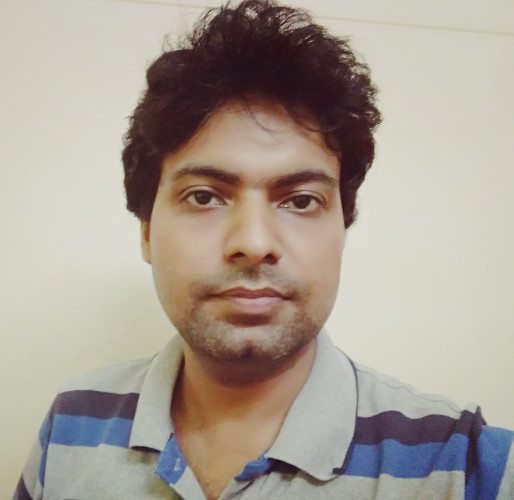
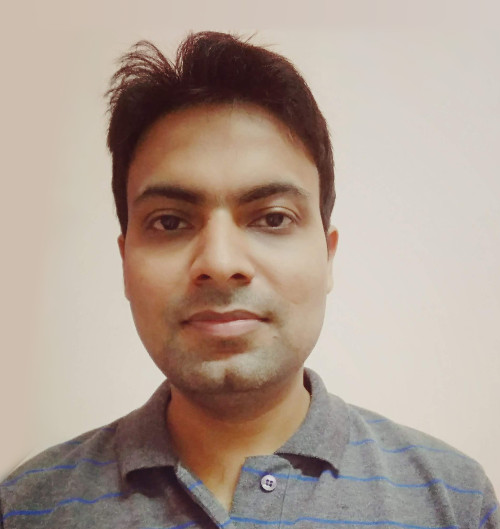
updated profile picture and main page

diff --git a/index.html b/index.html
@@ -81,7 +81,8 @@
             </h1>
             <div class="subheading mb-5">Department of Aerospace Engineering, IIT Bombay·
                 <a class="js-scroll-trigger" href="#contact">Contact Me</a>
-                <span style="visibility:hidden;"><a href="mailto:bhat.sourabh@iitb.ac.in">bhat.sourabh@iitb.ac.in</a></span>
+                <span style="visibility:hidden;"><a
+                        href="mailto:bhat.sourabh@iitb.ac.in">bhat.sourabh@iitb.ac.in</a></span>
             </div>
             <p class="mb-0">I am experienced in the development of software tools and application of computational fluid
                 dynamics in the field of Mechanical and Aerospace Engineering.</p>
@@ -420,43 +421,43 @@
                     <a href="https://doi.org/10.1016/j.jcp.2018.10.039">doi.org/10.1016/j.jcp.2018.10.039</a>
                     <!--<a href="http://www.sciencedirect.com/science/article/pii/S002199911830706X">Science Direct</a>-->
                 </li>
-            <!-- </ol>
+                <!-- </ol>
 
-            <div class="subheading mb-0">Conferences</div>
-            <ol class="mb-3"> -->
+                <div class="subheading mb-0">Conferences</div>
+                <ol class="mb-3"> -->
                 <li>
                     <span class="ml-2"></span>
                     <strong>Bhat S P</strong>, Parameswaran S, Mandal J C, <a href="share/ICTACEM_349_2017.pdf">
-                      "On the order of accuracy analysis of SDWLS method"</a>,
+                    "On the order of accuracy analysis of SDWLS method"</a>,
                     <em>ICTACEM 2017</em>, December 2017, IIT Kharagpur, India.
                 </li>
                 <li>
                     <span class="ml-2"></span>
                     <strong>Bhat S P</strong>, Mandal J C, <a href="share/AeSI_2017.pdf">
-                      "Artificial Compressibility Based Method for Two-phase Surface Tension Dominated Flows"</a>,
+                    "Artificial Compressibility Based Method for Two-phase Surface Tension Dominated Flows"</a>,
                     <em>Annual CFD Symposium 2017</em>, August 2017, NAL Bangalore,
                     India.
                 </li>
                 <li>
                     <span class="ml-2"></span>
                     <strong>Bhat S P</strong>, Mandal J C, <a href="share/FMFP2016-Bhat_Mandal.pdf">
-                      "A Novel HLLC-Type Riemann Solver for Two-Phase Incompressible Flows"</a>,
+                    "A Novel HLLC-Type Riemann Solver for Two-Phase Incompressible Flows"</a>,
                     <em>Proceedings of 6th International & 43rd National Conference on Fluid
-                    Mechanics and Fluid Power</em>, December 2016, Allahabad, India.
+                        Mechanics and Fluid Power</em>, December 2016, Allahabad, India.
                 </li>
                 <li>
                     <span class="ml-2"></span>
                     <strong>Bhat S P</strong>, Mandal J C, <a href="share/Sourabh_ThermaComp2016.pdf">
-                      "A novel reinitialization technique to conserve mass and enhance accuracy in VOF method"</a>,
+                    "A novel reinitialization technique to conserve mass and enhance accuracy in VOF method"</a>,
                     <em>Proceedings of 4th International Conference on Computational Methods for Thermal Problems</em>,
                     <a href="https://www.scopus.com/inward/record.uri?eid=2-s2.0-85053668366&partnerID=40&md5=c0555350568ed7fb80dcee0adb981595">
-                      Issue 217349</a>, July 6-8, 2016, Georgia Tech, Atlanta, USA.
+                        Issue 217349</a>, July 6-8, 2016, Georgia Tech, Atlanta, USA.
                 </li>
                 <li>
                     <span class="ml-2"></span>
                     Mandal J C, Parsai A, Parameswaran S, <strong>Bhat S P</strong>,
                     <a href="share/01 Interface Tracking (FMFP conference - Dec 2014).pdf">
-                      "A novel volume of fluid method for interface tracking"</a>,
+                        "A novel volume of fluid method for interface tracking"</a>,
                     <em>5th International and 41st National Conference on Fluid Mechanics and Fluid Power</em>,
                     December 12-14, 2014, Kanpur, India.
                 </li>
@@ -478,14 +479,14 @@
                     <strong>Bhat S P</strong>, Sullerey R K, "An Assessment of Turbulence Models for S-Duct Diffusers
                     With Flow Control", <em>ASME 2013 Gas Turbine India Conference</em>, Bangalore, India :V001T01A005.
                     <a href="http://proceedings.asmedigitalcollection.asme.org/proceeding.aspx?articleid=1838567">
-                      doi:10.1115/GTINDIA2013-3566</a>.
+                        doi:10.1115/GTINDIA2013-3566</a>.
                 </li>
                 <li>
                     <span class="ml-2"></span>
                     Sullerey R K, <strong>Bhat S P</strong>, "Numerical Analysis of Flow in S-Duct Diffusers With and
                     Without Flow Control", <em>ASME 2012 Gas Turbine India Conference</em>, Mumbai, India :79-84.
                     <a href="http://proceedings.asmedigitalcollection.asme.org/proceeding.aspx?articleid=1754533">
-                      doi:10.1115/GTINDIA2012-9541</a>.
+                        doi:10.1115/GTINDIA2012-9541</a>.
                 </li>
             </ol>
         </div>
@@ -504,8 +505,13 @@
                     watching Sci-Fi movies.
                 </li>
                 <li><i class="fa-li fa fa-star"></i>
-                    Also, I spend a lot of my free time in developing open source resources available at
+                    I spend a lot of my free time in developing open source resources available at
                     <a href="https://github.com/heySourabh">my github page</a>.
+                </li>
+                <li><i class="fa-li fa fa-star"></i>
+                    Currently, I am working on solving the interesting problems from the book
+                    <em>Compressible Fluid Flow by Patrick H. Oosthuizen and William E. Carscallen</em>,
+                    <a href="solutions/index.html">which are published here</a>.
                 </li>
             </ul>
         </div>
@@ -551,10 +557,11 @@
                 <input type="text" id="email" name="email" placeholder="Your Email">
 
                 <!--label for="message">Message</label>-->
-                <textarea id="message" name="message" placeholder="What's on your mind ..." style="height:200px"></textarea>
+                <textarea id="message" name="message" placeholder="What's on your mind ..."
+                          style="height:200px"></textarea>
 
                 <button type="submit">
-                  <i class="fa fa-paper-plane mr-2"></i> Send
+                    <i class="fa fa-paper-plane mr-2"></i> Send
                 </button>
             </form>
         </div>
